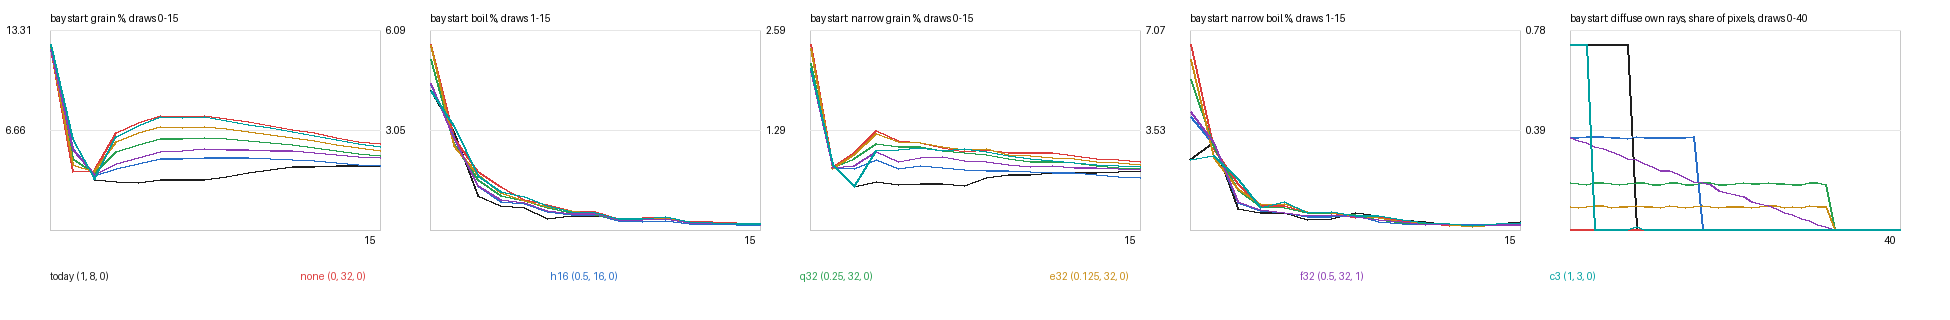
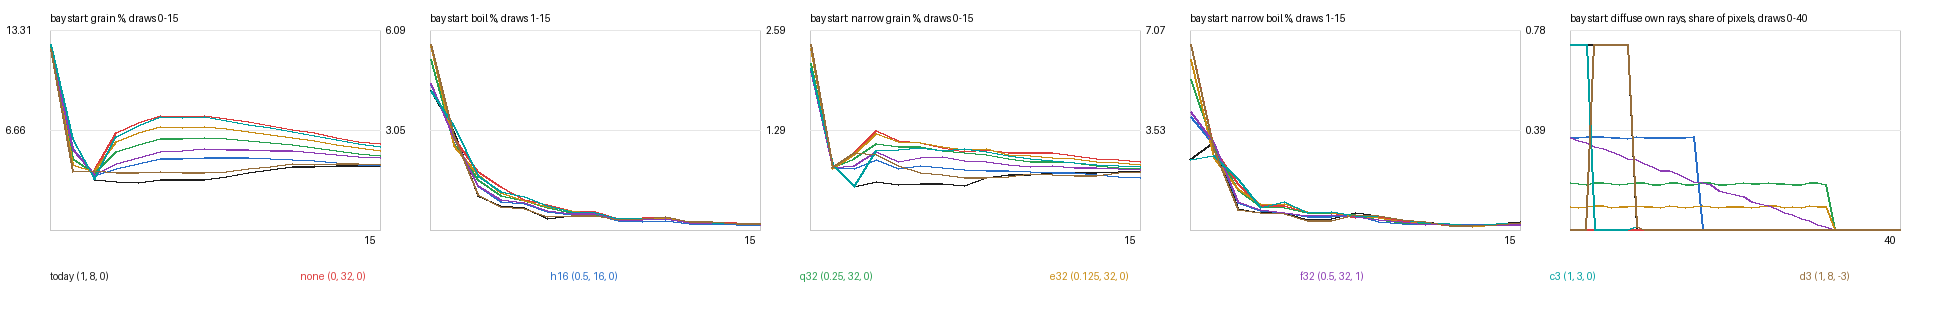
Delayed shape and 36-tap fix: draws 3 to 7 make the lasting grain gain, and the wide fix cuts draws 1 to 4's grain by a third (t0-gumm)
- d3, full rate in draws 3 to 7 only (3.63 rays per pixel, 5 dear draws), keeps 87 % of today's grain gain in draws 3
  to 8 and 94 % in 9 to 15, but less of the early boil gain.
- The fix of short histories reading every pixel of each tapped 2 x 2 block lowers today's grain of draws 1 to 4 from
  3.94 to 2.71 % and leaves the boil as it is. The control with d3 changes nothing.
- Every new patch passed a bit-for-bit check against the run that it must equal, and the record now names that step.

diff --git a/docs/research/t0-gumm-catch-up-spread/tools/widesum.py b/docs/research/t0-gumm-catch-up-spread/tools/widesum.py
@@ -1,0 +1,63 @@
+# Tool code of t0-gumm. widesum.py <out prefix> [fair folder]: the 36-tap fix's runs (queue-fair7.sh) against their controls, the
+# bay's start: today (bay-check-wide: xwz without the fix, equal to today's cliff bit for bit), wide-today (xwz with
+# TERTIUS_X_WIDE_FIX=1), d3 (bay-check-wide-d3), wide-d3, and none (bay-start-none). It prints per draw 0 to 15 the grain (the
+# mean of the floor and the wall) and per draw 1 to 15 the boil (the mean of the broad crops), both also on the narrow crop,
+# and their means over draws 1 to 4; and draws <prefix>-chart.png (those four per draw, one line per run) and
+# <prefix>-strip.png (the floor and the right wall at draws 1, 2 and 4, one column per run of the first four).
+import json
+import sys
+from pathlib import Path
+import numpy as np
+from PIL import Image, ImageDraw
+
+prefix = sys.argv[1]
+root = Path(sys.argv[2] if len(sys.argv) > 2 else '/private/tmp/t0-gbgj/gumm-fair')
+RUNS = [('today', 'bay-check-wide', (30, 30, 30)), ('today, 36-tap fix', 'bay-wide-today', (40, 110, 200)),
+        ('d3', 'bay-check-wide-d3', (150, 110, 60)), ('d3, 36-tap fix', 'bay-wide-d3', (40, 160, 80)),
+        ('none', 'bay-start-none', (220, 60, 60))]
+CROP = (500, 100, 1860, 1060)
+rows = []
+for label, folder, colour in RUNS:
+    r = json.loads((root / folder / 'fair.json').read_text())
+    broad = [c for c in r['boil'] if c != 'narrow']
+    rows.append({'label': label, 'folder': root / folder, 'colour': colour,
+                 'grain': np.mean([r['grain'][c] for c in ('floor', 'wall')], axis=0),
+                 'boil': np.mean([r['boil'][c] for c in broad], axis=0)[:15],
+                 'ngrain': np.array(r['grain']['narrow']), 'nboil': np.array(r['boil']['narrow'][:15])})
+for key, first in (('grain', 0), ('boil', 1), ('ngrain', 0), ('nboil', 1)):
+    print(f'{key} per draw from {first}:')
+    for r in rows:
+        v = r[key]
+        d14 = v[1 - first:5 - first].mean()
+        print(f'  {r["label"]:20s} draws 1-4 {d14:.3f} | ' + ' '.join(f'{x:.2f}' for x in v))
+PW, PH, M = 330, 200, 50
+im = Image.new('RGB', (4 * (PW + M) + M, PH + 110), 'white')
+g = ImageDraw.Draw(im)
+for j, (key, title, first) in enumerate((('grain', 'grain %, draws 0-15', 0), ('boil', 'boil %, draws 1-15', 1),
+                                         ('ngrain', 'narrow grain %, draws 0-15', 0), ('nboil', 'narrow boil %, draws 1-15', 1))):
+    x0, y0 = M + j * (PW + M), 30
+    top = max(float(r[key].max()) for r in rows) * 1.08
+    g.rectangle([x0, y0, x0 + PW, y0 + PH], outline=(200, 200, 200))
+    g.text((x0, y0 - 18), 'bay start: ' + title, fill='black')
+    for frac in (0.5, 1.0):
+        yy = y0 + PH * (1 - frac)
+        g.line([(x0, yy), (x0 + PW, yy)], fill=(230, 230, 230))
+        g.text((x0 - 44, yy - 6), f'{top * frac:.2f}', fill='black')
+    for r in rows:
+        v = r[key]
+        g.line([(x0 + (first + i - first) / (len(v) - 1) * PW, y0 + PH * (1 - val / top)) for i, val in enumerate(v)],
+               fill=r['colour'], width=2)
+for i, r in enumerate(rows):
+    g.text((M + i * 300, PH + 70), r['label'], fill=r['colour'])
+im.save(f'{prefix}-chart.png')
+cw, ch = int((CROP[2] - CROP[0]) * 0.4), int((CROP[3] - CROP[1]) * 0.4)
+shown = rows[:4]
+strip = Image.new('RGB', (len(shown) * (cw + 8), 3 * (ch + 26)), 'white')
+g = ImageDraw.Draw(strip)
+for i, r in enumerate(shown):
+    for k, d in enumerate((1, 2, 4)):
+        x, y = i * (cw + 8), k * (ch + 26)
+        strip.paste(Image.open(r['folder'] / f'f-{d:06d}.png').convert('RGB').crop(CROP).resize((cw, ch), Image.LANCZOS), (x, y + 22))
+        g.text((x + 4, y + 5), f"{r['label']}, draw {d}, scale 2/3", fill='black')
+strip.save(f'{prefix}-strip.png')
+print(f'chart {prefix}-chart.png, strip {prefix}-strip.png')

diff --git a/docs/research/t0-gumm-catch-up-spread/tools/sweep.py b/docs/research/t0-gumm-catch-up-spread/tools/sweep.py
@@ -1,5 +1,5 @@
 # Tool code of t0-gumm. sweep.py <out prefix> [fair folder]: the sweep of catch-up shapes at the bay's start
-# (queue-fair3.sh, and c3 (1, 3, 0) by queue-fair4.sh), from fairmeasure.py's fair.json files and the own-ray logs (scratch-ownray-log.patch, per draw
+# (queue-fair3.sh; c3 (1, 3, 0) by queue-fair5.sh; d3 (1, 8, -3), full rate in draws 3 to 7 only, by queue-fair6.sh), from fairmeasure.py's fair.json files and the own-ray logs (scratch-ownray-log.patch, per draw
 # "<frame> <draw index> <w> <h> <reflection own rays> <..2> <diffuse own rays> <..2>"). Per shape it prints:
 #   - the boil of draws 1 to 8 (the mean of the broad crops), the grain of draws 3 to 8 and 9 to 15 (the mean of the floor
 #     and the wall), and the same three on the narrow crop;
@@ -23,7 +23,8 @@ SHAPES = [('today', 'today (1, 8, 0)', 'bay-start-today', 'bay-own-today', (30, 
           ('q32', 'q32 (0.25, 32, 0)', 'bay-start-q32', 'bay-start-q32', (40, 160, 80)),
           ('e32', 'e32 (0.125, 32, 0)', 'bay-start-e32', 'bay-start-e32', (200, 140, 20)),
           ('f32', 'f32 (0.5, 32, 1)', 'bay-start-f32', 'bay-start-f32', (140, 60, 180)),
-          ('c3', 'c3 (1, 3, 0)', 'bay-start-c3', 'bay-start-c3', (0, 160, 160))]
+          ('c3', 'c3 (1, 3, 0)', 'bay-start-c3', 'bay-start-c3', (0, 160, 160)),
+          ('d3', 'd3 (1, 8, -3)', 'bay-start-d3', 'bay-start-d3', (150, 110, 60))]
 GRAIN = ('floor', 'wall')
 CROP = (500, 100, 1860, 1060)
 rows = []

diff --git a/docs/research/t0-gumm-catch-up-spread/README.md b/docs/research/t0-gumm-catch-up-spread/README.md
@@ -399,6 +399,7 @@ The catch-up rays per pixel are the own diffuse rays above the settled level, su
 | q32 (0.25, 32, 0) | 19 % | 5.78 | 1.622 | 5.89 | 5.47 | 1.635 | 1.05 | 0.86 |
 | e32 (0.125, 32, 0) | 10 % | 2.89 | 1.716 | 6.62 | 5.94 | 1.705 | 1.12 | 0.92 |
 | c3 (1, 3, 0) | 72 % | 2.18 | 1.638 | 7.18 | 6.28 | 1.316 | 1.04 | 0.88 |
+| d3 (1, 8, −3) | 72 % | 3.63 | 1.527 | 3.85 | 4.33 | 1.564 | 0.77 | 0.72 |
 | none (0, 32, 0) | 0 | 0 | 1.801 | 7.31 | 6.45 | 1.808 | 1.12 | 0.96 |
 
 What one catch-up ray per pixel buys against none (the drop of the measure divided by the rays per pixel):
@@ -411,6 +412,7 @@ What one catch-up ray per pixel buys against none (the drop of the measure divid
 | q32 | 0.25 | 0.031 |
 | e32 | 0.24 | 0.029 |
 | c3 | 0.02 | 0.075 |
+| d3 | 0.95 | 0.075 |
 
 `pics/sweep-strip.png` shows the floor and the right wall at draws 2 and 8, today | none | h16 | q32 | e32 | f32 | c3. `pics/sweep-chart.png` shows the measures per draw and the share of pixels that trace an own diffuse ray in each draw.
 
@@ -419,6 +421,9 @@ What the sweep shows:
 - No shape spreads the same rays over more draws and keeps the picture. At today's total, half the peak (h16) keeps about two thirds of today's grain gain and three quarters of its boil gain. A quarter of the peak (q32) keeps about a third.
 - The grain of a draw follows the share of own rays traced in that draw and the few draws before it. c3's grain jumps to none's at draw 3, the draw its rays stop. Today's grain rises from 3.3 toward 4.2 after its rays stop at draw 8. So a ray buys grain in the draws around the one it is traced in. This contradicts my earlier reading (the fair test) that the early blotches stay in the history, which predicted that an early ray buys more than a late one.
 - The boil of draws 1 to 8 differs. c3's rays in draws 0 to 2 buy it at today's rate per ray, and on the narrow crop they buy 72 % of today's gain.
+- The early blotches do not stay in the grain, but the rays of draws 3 to 8 do stay in the history: none's grain over today's is 2.2 times in draws 3 to 8 (7.31 against 3.34), about √4, the ratio of independent samples per 2 × 2 block. My reading, after the line orchestrator's: the fix of short histories is the likely reason why the rays of draws 0 to 2 buy no grain. While a history is shorter than `HistoryFixFrames` (4), the fix replaces it with the mean of 3 × 3 taps 4 and 2 pixels apart, one pixel per block, so a ray's independence is lost there. From a length of 4 on, the pixel keeps its own samples.
+- The delayed shape d3 (`scratch-catch-up-delay.patch`, build `xdz`; `tools/queue-fair6.sh`): share 0 in draws 0 to 2, full rate in draws 3 to 7 only, 3.63 catch-up rays per pixel and 5 dear draws. It tests the reading. It keeps 87 % of today's grain gain in draws 3 to 8 (3.85 against today's 3.34 and none's 7.31) and 94 % in draws 9 to 15, but stays 0.51 above today in draws 3 to 8, beyond the spread of 0.08. It keeps 64 % of the broad boil gain of draws 1 to 8 and 36 % of the narrow crop's, since the early rays buy boil. So the rays of draws 3 to 7 make most of the lasting grain gain, as the reading predicts, and the rays of draws 0 to 2 buy the early boil and a little of the grain.
+- Every later shape run on a new patch is first compared bit for bit with a run that it must equal (`tools/queue-fair7.sh`, every row of `frames.series` and the PNGs that both kept): h16 on `xdz` against h16 on `xcz`, today's shape on `xwz` with the 36-tap fix off against today's cliff on `xgz`, and d3 on `xwz` with the fix off against d3 on `xdz`. All three are the same in all 200 rows and every kept PNG. The c3 fault above was found this way.
 
 ## The bay start's video and its card job
 
@@ -433,6 +438,28 @@ Card job `fair1` (`tools/card.sh` with `CARDRUN=cardfair.sh`, `RUNS=2`, $0.0435)
 | none (0, 32, 0) | 0.917 (draw 4) | 32 to 33 |
 
 The video `pics/bay-start-final.mp4` (`tools/queue-video-bay.sh`, then `tools/videos.py`) shows the bay start's draws 0 to 119: today | none | h16, 3840 × 720 (three panes of 1280 × 720), 60 frames a second, one draw per frame, H.264 `yuv420p` at CRF 12, the render scale per pane, a draw counter, and the fixed exposure of −4.0 stops. Each pane plays back its own card scale log (the second run of `fair1`), and each Mac run matched its log at 200 of 200 draws. `videos-bay.txt` holds the scale ranges and the check of three decoded frames against the source PNGs (every pane within 0.26 %). `pics/bay-start-final-draw4.png` is its frame at draw 4: today's bounce is smooth at a scale of 0.806, none is blotched at 0.917, and h16 is between at 0.850.
+
+## The 36-tap fix of short histories
+
+The line orchestrator's variant (2026-11-22, 23:40). It aims at the fault that both codes share: the first draws of a bounce-lit room. While a history is shorter than `HistoryFixFrames` (4), the fix of `accumulate_spatial.comp` (step 3) replaces it with the length-weighted mean of 3 × 3 taps `spacing` pixels apart: 4 at a length of 1, 2 at a length of 2, and 1 at a length of 3. Each tap is one pixel of a 2 × 2 block. With today's cliff every pixel of a tapped block holds an independent sample in those draws, and the fix reads one of the four.
+
+`scratch-wide-fix.patch` (build `xwz`, switch `TERTIUS_X_WIDE_FIX=1`): while the spacing is 2 or more, each tap reads every pixel of its 2 × 2 block that passes the surface test, each weighted by its length, the own block's other three pixels too. That is up to 36 reads in place of 9, and no ray. At a spacing of 1 the taps already lie in neighbouring pixels, and the fix stays today's 3 × 3. With the switch off, the build gives today's cliff and d3 bit for bit (above).
+
+The bay's start at the constant scale 2/3 (`tools/queue-fair7.sh`, `tools/widesum.py`). Grain is the mean of the floor and the wall, boil the mean of the broad crops, in %:
+
+| Run | Grain 1–4 | Boil 1–4 | Narrow grain 1–4 | Narrow boil 1–4 | Grain per draw 0, 1, 2, 3, 4, 8 |
+|---|---|---|---|---|---|
+| today | 3.94 | 2.254 | 0.660 | 1.747 | 12.32, 6.02, 3.38, 3.20, 3.17, 3.54 |
+| today with the 36-tap fix | 2.71 | 2.289 | 0.569 | 1.737 | 6.22, 2.34, 2.79, 2.83, 2.89, 3.44 |
+| d3 | 3.88 | 2.573 | 0.905 | 2.683 | 12.00, 3.87, 3.99, 3.85, 3.80, 3.91 |
+| d3 with the 36-tap fix | 3.88 | 2.574 | 0.904 | 2.678 | 11.98, 3.88, 3.99, 3.86, 3.81, 3.91 |
+| none | 5.37 | 2.886 | 1.064 | 2.978 | 12.00, 3.87, 3.99, 6.48, 7.13, 7.61 |
+
+- With today's cliff, the 36-tap fix lowers the grain of draws 1 to 4 by 1.23 points (3.94 to 2.71, −31 %), far beyond the bay's spread of 0.08. It halves the grain of draw 0 (12.3 to 6.2) and of draw 1 (6.0 to 2.3). The gain shrinks to 0.1 by draw 8 and is gone from draw 9. The narrow crop's grain of draws 1 to 4 falls from 0.66 to 0.57.
+- It does not lower the boil of draws 1 to 4: 2.254 against 2.289, 0.035 higher, just over the spread of 0.02. Draw 1 boils more (4.23 against 4.72) and draw 2 less (2.99 against 2.65), since the boil compares a draw with its two neighbours. The narrow crop's boil is the same.
+- The control holds: with d3, whose block pixels share one sample in draws 0 to 2, the fix changes nothing beyond the spread (grain 3.880 against 3.883).
+
+`pics/wide-fix-strip.png` shows the floor and the right wall at draws 1, 2 and 4: today | today with the fix | d3 | d3 with the fix. `pics/wide-fix-chart.png` shows the four measures per draw with none. At the strip's size the fix's gain is hard to see; it is fine grain, not the block-sized blotches of none and d3.
 
 ## Two designs for the cost of the catch-up rays
 
@@ -472,5 +499,5 @@ The estimate leaves out the part of a draw's cost that does not grow with the pi
 - `videos.txt`: the final videos' scale ranges and frame checks. `videos-events.txt`: the measures of the video runs under the card's scale.
 - Commit `6b1e3deb9`, tagged `t0-3vwx`, also added `scratch-no-region-evidence.patch` and changed `tools/builds.sh` here, for the region take of `t0-qvm1`.
 - `scratch-frozen.patch`: the frozen films of the fair test (`TERTIUS_X_FROZEN=1`). `tools/fairrun.sh` (a Mac run of the fair test), `tools/fairmeasure.py` (its measures), `tools/queue-fair.sh` (the bay's start and cut, stopped before its cut+1 and cut+2 runs) and `tools/queue-fair2.sh` (the cabin, the spread runs, then `t0-qvm1`'s region log), `tools/fairsum.py` (the table and `pics/fair-chart.png`), `tools/fairpics.py` (`pics/fair-*.png`).
-- `scratch-sun-switch.patch` (the gate's sun switch), `scratch-catch-up-short.patch` (a shape that ends before 8 draws keeps its share). `tools/fairsun.sh`, `tools/queue-sun.sh` and `tools/gatesum.py` (the gate, `pics/gate-sun-*.png`); `tools/queue-fair3.sh`, `tools/queue-fair4.sh`, `tools/queue-fair5.sh` and `tools/sweep.py` (the sweep, `pics/sweep-*.png`); `tools/cardreturn.py` (the card's slow return) and `tools/knowndip.py` (the estimate of form (b)). `tools/cardfair.sh` and `tools/cardstart.py` (card job `fair1`), `tools/queue-video-bay.sh` (the bay video's runs). `scratch-catch-up-delay.patch` (a delayed flat shape) and `scratch-wide-fix.patch` (the 36-tap fix of short histories); `tools/queue-fair6.sh` and `tools/queue-fair7.sh` (their runs and bit-for-bit checks).
+- `scratch-sun-switch.patch` (the gate's sun switch), `scratch-catch-up-short.patch` (a shape that ends before 8 draws keeps its share). `tools/fairsun.sh`, `tools/queue-sun.sh` and `tools/gatesum.py` (the gate, `pics/gate-sun-*.png`); `tools/queue-fair3.sh`, `tools/queue-fair4.sh`, `tools/queue-fair5.sh` and `tools/sweep.py` (the sweep, `pics/sweep-*.png`); `tools/cardreturn.py` (the card's slow return) and `tools/knowndip.py` (the estimate of form (b)). `tools/cardfair.sh` and `tools/cardstart.py` (card job `fair1`), `tools/queue-video-bay.sh` (the bay video's runs). `scratch-catch-up-delay.patch` (a delayed flat shape) and `scratch-wide-fix.patch` (the 36-tap fix of short histories); `tools/queue-fair6.sh` and `tools/queue-fair7.sh` (their runs and bit-for-bit checks), `tools/widesum.py` (`pics/wide-fix-*.png`).
 - The cloud spend of the four card jobs: $0.0542 + $0.0846 + $0.0898 + $0.0435 (fair1) = $0.2721, of the $1.50 allowed.
